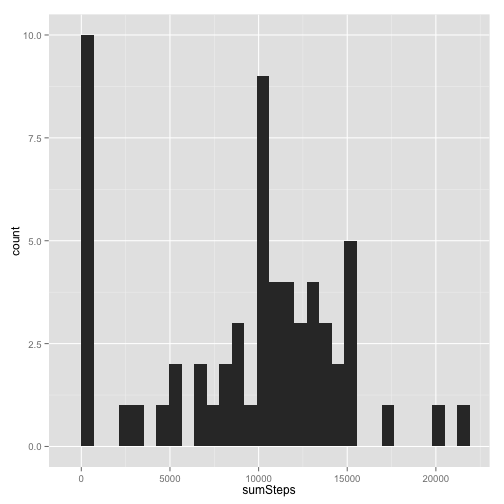
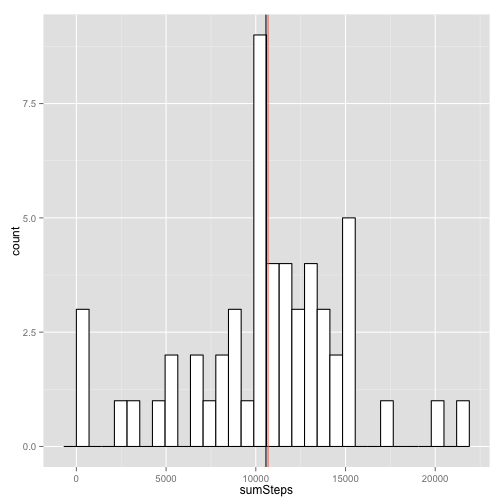
Removed NA values

diff --git a/PA1_template.html b/PA1_template.html
@@ -205,36 +205,44 @@ hljs.initHighlightingOnLoad();
 ##
 ## Summarize by Date
 ##
-#
-  stepsPerDay&lt;-ddply(acts,&quot;date&quot;,summarize,sumSteps=sum(steps,na.rm=TRUE))
+## Ignore NA values
+##
+  noNAacts&lt;-acts[!is.na(acts),]
+  #stepsPerDay&lt;-ddply(acts,&quot;date&quot;,summarize,sumSteps=sum(steps,na.rm=TRUE))
+  stepsPerDay&lt;-ddply(noNAacts,&quot;date&quot;,summarize,sumSteps=sum(steps,na.rm=TRUE))
 ##
 ## Calculate the mean, ignoring the NA
 ##
-  stepMean&lt;-mean(stepsPerDay$sumSteps[!is.na(stepsPerDay$sumSteps)] )
+  #stepMean&lt;-mean(stepsPerDay$sumSteps[!is.na(stepsPerDay$sumSteps)] )
+  stepMean&lt;-mean(stepsPerDay$sumSteps)
   cat(&quot;The mean total number of steps taken per day is&quot;, stepMean)
 </code></pre>
 
-<pre><code>## The mean total number of steps taken per day is 9354
+<pre><code>## The mean total number of steps taken per day is 10567
 </code></pre>
 
 <pre><code class="r">## Plot the histogram oftotal  steps per day
-  ggplot(stepsPerDay, aes(  x=sumSteps)) + geom_histogram()
+  ggplot(stepsPerDay, aes(x=sumSteps)) + geom_histogram(colour=&quot;black&quot;,fill=&quot;white&quot;) +
+   geom_vline(data=stepsPerDay,aes(xintercept=mean(stepsPerDay$sumSteps, na.rm=T),show_guide = TRUE))+
+   geom_vline(data=stepsPerDay,aes(xintercept=median(stepsPerDay$sumSteps, na.rm=T), col=&quot;red&quot;,show_guide = TRUE))
 </code></pre>
 
 <pre><code>## stat_bin: binwidth defaulted to range/30. Use &#39;binwidth = x&#39; to adjust this.
 </code></pre>
 
[2 lines of base64/hex data omitted]
 
 <h2>What is the average daily activity pattern?</h2>
 
 <pre><code class="r">##Calculate and report the mean and median total number of steps taken per day
-  meanStepsPerDay&lt;-mean(stepsPerDay$sumSteps[!is.na(stepsPerDay$sumSteps)])
-  medianStepsPerDay&lt;-median(stepsPerDay$sumSteps[!is.na(stepsPerDay$sumSteps)])
+  #meanStepsPerDay&lt;-mean(stepsPerDay$sumSteps[!is.na(stepsPerDay$sumSteps)])
+  #medianStepsPerDay&lt;-median(stepsPerDay$sumSteps[!is.na(stepsPerDay$sumSteps)])
+  meanStepsPerDay&lt;-mean(stepsPerDay$sumSteps)
+  medianStepsPerDay&lt;-median(stepsPerDay$sumSteps)
   cat(&quot;The mean total steps per day is&quot;,meanStepsPerDay, &quot;and the median total steps per day is&quot;,medianStepsPerDay)
 </code></pre>
 
-<pre><code>## The mean total steps per day is 9354 and the median total steps per day is 10395
+<pre><code>## The mean total steps per day is 10567 and the median total steps per day is 10682
 </code></pre>
 
 <p>###Time series plot of steps per interval</p>
@@ -242,8 +250,8 @@ hljs.initHighlightingOnLoad();
 <pre><code class="r">##
 ##Get the complete cases for the summary with ddply and the plot
 ##
-  #facts&lt;-acts[complete.cases(acts),]
-  sumIntervals&lt;-ddply( acts,&quot;interval&quot;,summarize,sumSteps=sum(steps,na.rm=TRUE))
+  facts&lt;-acts[complete.cases(acts),]
+  sumIntervals&lt;-ddply(facts,&quot;interval&quot;,summarize,sumSteps=sum(steps,na.rm=TRUE))
   plot(sumIntervals,t=&quot;l&quot;)
 </code></pre>
 
@@ -252,7 +260,7 @@ hljs.initHighlightingOnLoad();
 <pre><code class="r">##
 ##Find the interval with the the highest average number of steps
 ## 
-  meanIntervals&lt;-ddply(acts,&quot;interval&quot;,summarize,meanSteps=mean(steps,na.rm=TRUE))
+  meanIntervals&lt;-ddply(facts,&quot;interval&quot;,summarize,meanSteps=mean(steps,na.rm=TRUE))
   maxStepInterval&lt;-meanIntervals$interval[which(meanIntervals$meanSteps==max(meanIntervals$meanSteps))]
   cat(&quot;The interval beginning at&quot;,maxStepInterval,&quot;has the highest average number of steps.&quot; )
 </code></pre>
@@ -313,14 +321,14 @@ fstepsPerDay&lt;-ddply(fixedActs,&quot;date&quot;,summarize,sumSteps=sum(steps))
   cat(&quot;The mean steps per day changed by&quot;,meanDiff, &quot;steps&quot;)
 </code></pre>
 
-<pre><code>## The mean steps per day changed by -1412 steps
+<pre><code>## The mean steps per day changed by -199.4 steps
 </code></pre>
 
 <pre><code class="r">  medianDiff&lt;-fstepMedian-medianStepsPerDay
   cat(&quot;The median steps per day changed by&quot;,medianDiff, &quot;steps&quot;)
 </code></pre>
 
-<pre><code>## The median steps per day changed by 371.2 steps
+<pre><code>## The median steps per day changed by 83.69 steps
 </code></pre>
 
 <h2>Are there differences in activity patterns between weekdays and weekends?</h2>
@@ -333,12 +341,6 @@ fstepsPerDay&lt;-ddply(fixedActs,&quot;date&quot;,summarize,sumSteps=sum(steps))
   suns&lt;-days==&quot;Sunday&quot;
   fixedActs$dayType[suns]&lt;-&quot;weekend&quot;
   fixedActs$dayType[sats]&lt;-&quot;weekend&quot;
-  table(fixedActs$dayType)
-</code></pre>
-
-<pre><code>## 
-## weekday weekend 
-##   12960    4608
 </code></pre>
 
 <p>Summarize the data and plot it</p>

diff --git a/PA1_template.md b/PA1_template.md
@@ -30,23 +30,29 @@
 ##
 ## Summarize by Date
 ##
-#
-  stepsPerDay<-ddply(acts,"date",summarize,sumSteps=sum(steps,na.rm=TRUE))
+## Ignore NA values
+##
+  noNAacts<-acts[!is.na(acts),]
+  #stepsPerDay<-ddply(acts,"date",summarize,sumSteps=sum(steps,na.rm=TRUE))
+  stepsPerDay<-ddply(noNAacts,"date",summarize,sumSteps=sum(steps,na.rm=TRUE))
 ##
 ## Calculate the mean, ignoring the NA
 ##
-  stepMean<-mean(stepsPerDay$sumSteps[!is.na(stepsPerDay$sumSteps)] )
+  #stepMean<-mean(stepsPerDay$sumSteps[!is.na(stepsPerDay$sumSteps)] )
+  stepMean<-mean(stepsPerDay$sumSteps)
   cat("The mean total number of steps taken per day is", stepMean)
 ```
 
 ```
-## The mean total number of steps taken per day is 9354
+## The mean total number of steps taken per day is 10567
 ```
 
 
 ```r
 ## Plot the histogram oftotal  steps per day
-  ggplot(stepsPerDay, aes(  x=sumSteps)) + geom_histogram()
+  ggplot(stepsPerDay, aes(x=sumSteps)) + geom_histogram(colour="black",fill="white") +
+   geom_vline(data=stepsPerDay,aes(xintercept=mean(stepsPerDay$sumSteps, na.rm=T),show_guide = TRUE))+
+   geom_vline(data=stepsPerDay,aes(xintercept=median(stepsPerDay$sumSteps, na.rm=T), col="red",show_guide = TRUE))
 ```
 
 ```
@@ -58,13 +64,15 @@
 
 ```r
 ##Calculate and report the mean and median total number of steps taken per day
-  meanStepsPerDay<-mean(stepsPerDay$sumSteps[!is.na(stepsPerDay$sumSteps)])
-  medianStepsPerDay<-median(stepsPerDay$sumSteps[!is.na(stepsPerDay$sumSteps)])
+  #meanStepsPerDay<-mean(stepsPerDay$sumSteps[!is.na(stepsPerDay$sumSteps)])
+  #medianStepsPerDay<-median(stepsPerDay$sumSteps[!is.na(stepsPerDay$sumSteps)])
+  meanStepsPerDay<-mean(stepsPerDay$sumSteps)
+  medianStepsPerDay<-median(stepsPerDay$sumSteps)
   cat("The mean total steps per day is",meanStepsPerDay, "and the median total steps per day is",medianStepsPerDay)
 ```
 
 ```
-## The mean total steps per day is 9354 and the median total steps per day is 10395
+## The mean total steps per day is 10567 and the median total steps per day is 10682
 ```
 ###Time series plot of steps per interval
 
@@ -72,8 +80,8 @@
 ##
 ##Get the complete cases for the summary with ddply and the plot
 ##
-  #facts<-acts[complete.cases(acts),]
-  sumIntervals<-ddply( acts,"interval",summarize,sumSteps=sum(steps,na.rm=TRUE))
+  facts<-acts[complete.cases(acts),]
+  sumIntervals<-ddply(facts,"interval",summarize,sumSteps=sum(steps,na.rm=TRUE))
   plot(sumIntervals,t="l")
 ```
 
@@ -84,7 +92,7 @@
 ##
 ##Find the interval with the the highest average number of steps
 ## 
-  meanIntervals<-ddply(acts,"interval",summarize,meanSteps=mean(steps,na.rm=TRUE))
+  meanIntervals<-ddply(facts,"interval",summarize,meanSteps=mean(steps,na.rm=TRUE))
   maxStepInterval<-meanIntervals$interval[which(meanIntervals$meanSteps==max(meanIntervals$meanSteps))]
   cat("The interval beginning at",maxStepInterval,"has the highest average number of steps." )
 ```
@@ -151,7 +159,7 @@ fstepsPerDay<-ddply(fixedActs,"date",summarize,sumSteps=sum(steps))
 ```
 
 ```
-## The mean steps per day changed by -1412 steps
+## The mean steps per day changed by -199.4 steps
 ```
 
 ```r
@@ -160,7 +168,7 @@ fstepsPerDay<-ddply(fixedActs,"date",summarize,sumSteps=sum(steps))
 ```
 
 ```
-## The median steps per day changed by 371.2 steps
+## The median steps per day changed by 83.69 steps
 ```
 
 
@@ -174,13 +182,6 @@ Create a factor for weekday versus weekend
   suns<-days=="Sunday"
   fixedActs$dayType[suns]<-"weekend"
   fixedActs$dayType[sats]<-"weekend"
-  table(fixedActs$dayType)
-```
-
-```
-## 
-## weekday weekend 
-##   12960    4608
 ```
 Summarize the data and plot it
 
